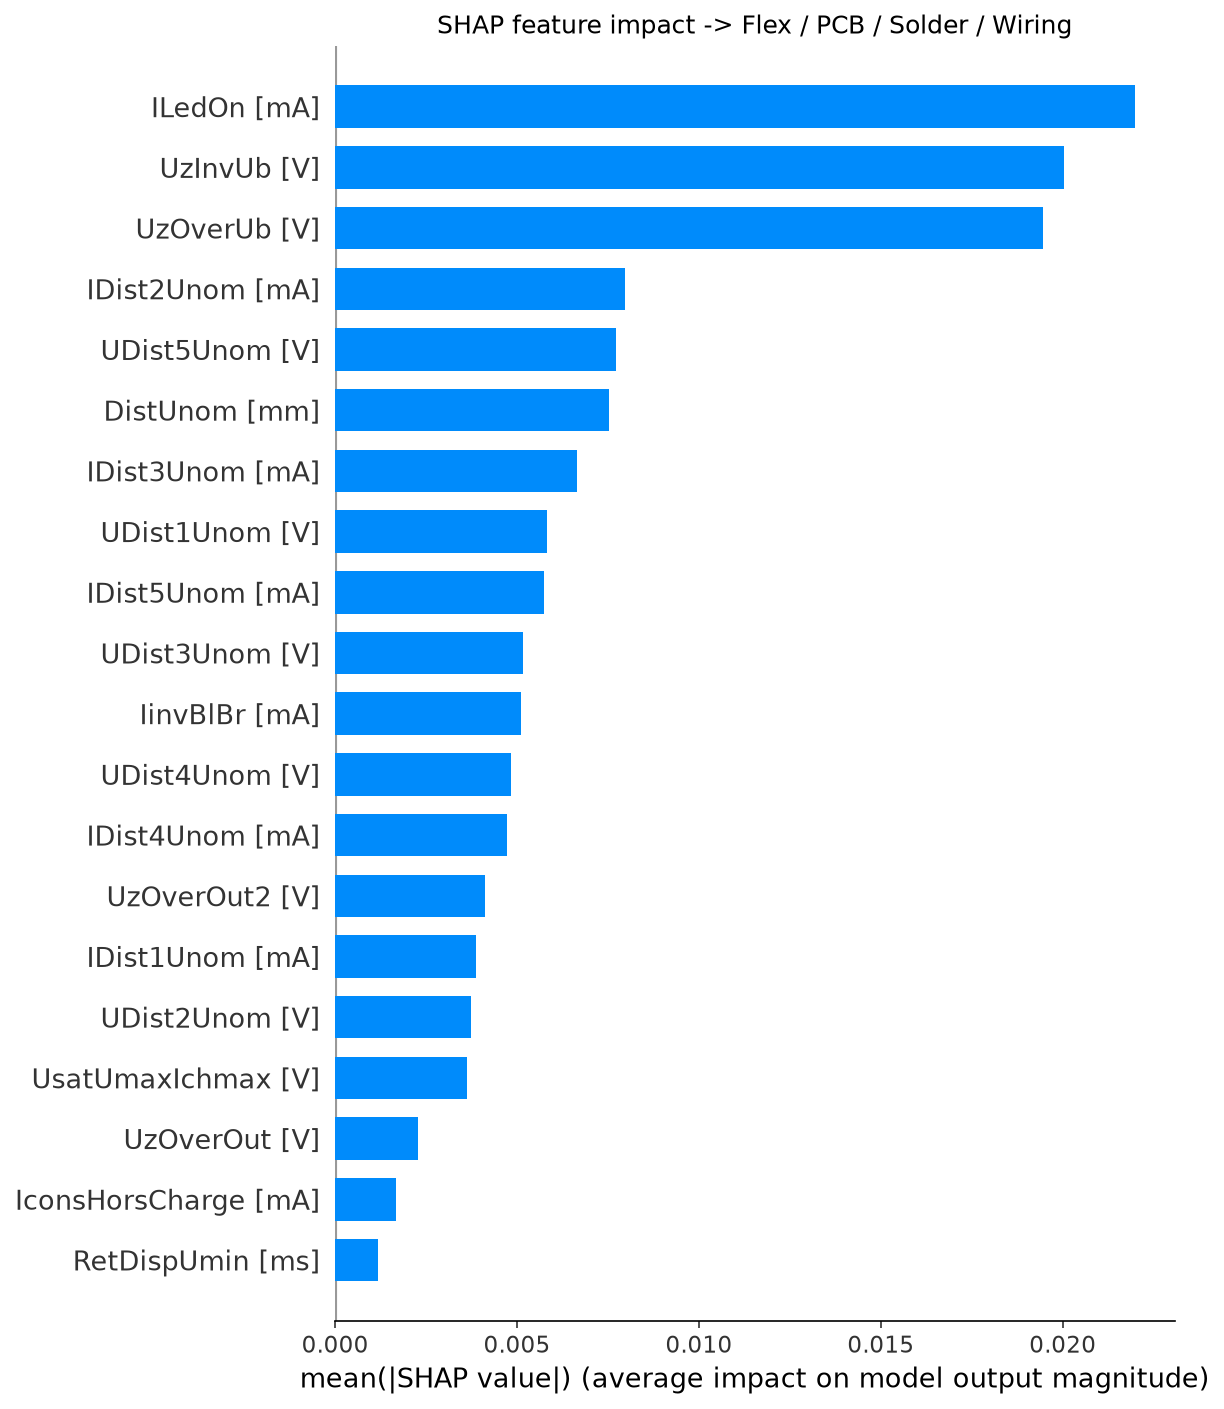
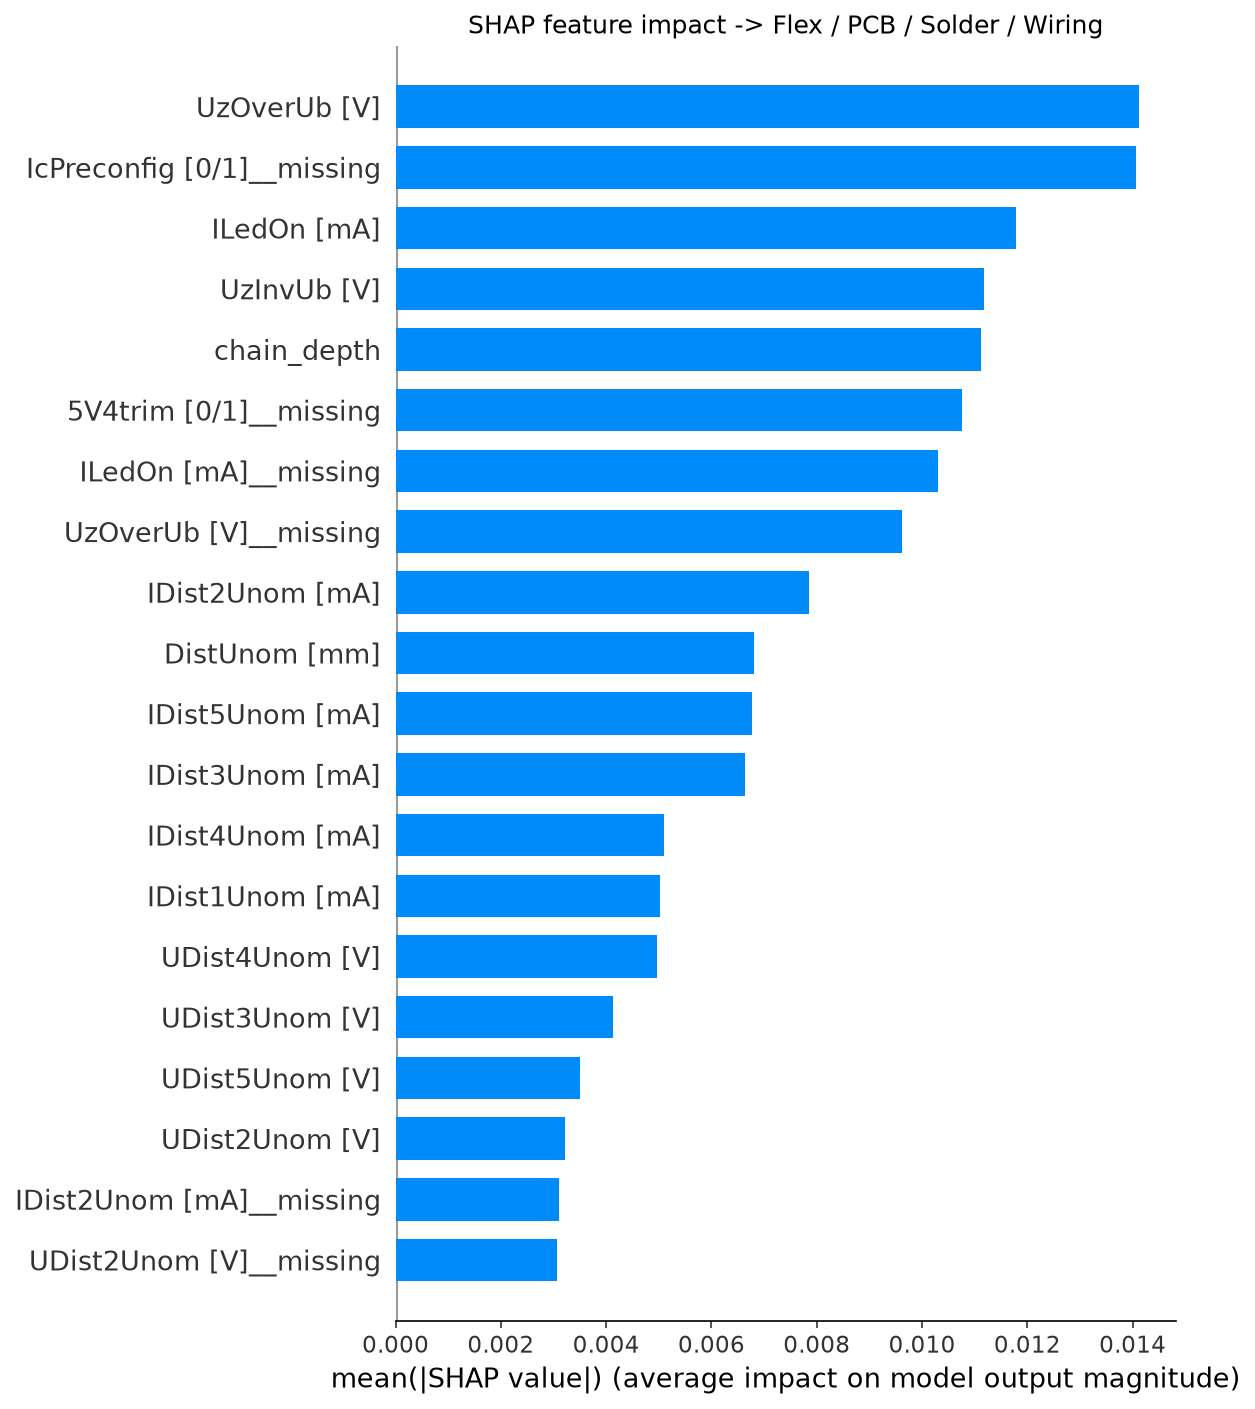
Add blank-pattern indicators and chain_depth features; ML macro F1 0.461 -> 0.491

Changed region(s): [[0.0, 0.0625, 0.9935, 0.9993], [0.3725, 0.0, 0.9003, 0.0312], [0.8072, 0.0625, 0.9314, 0.1874]]

diff --git a/src/features.py b/src/features.py
@@ -38,10 +38,25 @@ labeled_units.csv (and its train/test split) has 4 kinds of columns:
 Missing values
 ---------------
 A blank cell means that parameter was skipped ("--") for that unit during
-the FT run (not every parameter applies to every article/test program).
-These are median-imputed per column. Imputation statistics are fit on the
-TRAIN split only and then applied to the test split, so no information
-about the test set's own distribution leaks into training.
+the FT run. For the 0/1 calibration flags this is NOT noise: the tester
+aborts its calibration sequence at the first error, so a blank means "the
+sequence never got this far" -- the strongest predictive signal in the data
+(see rules_baseline.py). Median imputation alone would erase it, so before
+imputing, this module adds:
+
+  * <column>__missing  -- 1 if that column was blank, 0 otherwise, for every
+                          column that has at least one blank in the TRAIN
+                          split (the column set is fixed from train only).
+  * chain_depth         -- how many steps of the calibration sequence
+                          (CHAIN_ORDER) were reached in a row before the
+                          first blank: 0 = nothing reached ... 10 = all.
+
+These are raw properties of the FT export (available for a brand-new unit at
+inference time), so they are not leaky like severity_score.
+
+Remaining blanks are then median-imputed per column. Imputation statistics
+are fit on the TRAIN split only and applied to the test split, so no
+information about the test set's own distribution leaks into training.
 
 Usage
 -----
@@ -73,6 +88,15 @@ NON_FEATURE_COLUMNS = {
     # leaky: derived FROM the label via parser.py's category-matching logic
     "severity_score", "n_flagged_params", "flagged_params", "flagged_params_matched",
 }
+
+# Execution order of the CTX510 calibration sequence, derived empirically from
+# train data (same order as rules_baseline.TEST_ORDER; TestIsolation is
+# excluded because it runs independently of the chain).
+CHAIN_ORDER = [
+    "IcPreconfig [0/1]", "5V4trim [0/1]", "TemperatureComp [0/1]",
+    "CalibrSP1Hys [0/1]", "CalibrSP1 [0/1]", "CalibrSP2Hys [0/1]", "CalibrSP2 [0/1]",
+    "CalibrSP3Hys [0/1]", "CalibrSP3 [0/1]", "YellowLed [0/1]",
+]
 
 LABEL_COLUMN = "model_target"
 GROUP_COLUMN = "PO"
@@ -144,6 +168,47 @@ def build_feature_matrix(train_path: str, test_path: str):
     train_raw, y_train, groups_train = extract(train_rows)
     test_raw, y_test, groups_test = extract(test_rows)
 
+    col_idx_of = {c: i for i, c in enumerate(feature_names)}
+
+    # Columns that get a __missing indicator: any column with >=1 blank in TRAIN.
+    # Columns whose blank-pattern is IDENTICAL across all train rows (they are
+    # skipped together by the same test-program abort) would just be duplicate
+    # features and split SHAP credit between copies, so only the first column
+    # of each identical group is kept; the others are recorded in
+    # INDICATOR_GROUPS so the grouping stays traceable.
+    seen_patterns = {}
+    missing_cols = []
+    indicator_groups = {}
+    for c in feature_names:
+        pattern = tuple(row[col_idx_of[c]] is None for row in train_raw)
+        if not any(pattern):
+            continue
+        if pattern in seen_patterns:
+            indicator_groups[seen_patterns[pattern]].append(c)
+        else:
+            seen_patterns[pattern] = c
+            missing_cols.append(c)
+            indicator_groups[c] = [c]
+
+    def chain_depth(raw_row):
+        depth = 0
+        for c in CHAIN_ORDER:
+            if c not in col_idx_of or raw_row[col_idx_of[c]] is None:
+                break
+            depth += 1
+        return depth
+
+    def indicators(raw):
+        return [
+            [1.0 if row[col_idx_of[c]] is None else 0.0 for c in missing_cols]
+            + [float(chain_depth(row))]
+            for row in raw
+        ]
+
+    indicator_names = [f"{c}__missing" for c in missing_cols] + ["chain_depth"]
+    # Exposed for the CLI printout.
+    build_feature_matrix.indicator_groups = indicator_groups
+
     # Fit per-column medians on TRAIN only.
     medians = []
     for col_idx in range(len(feature_names)):
@@ -156,8 +221,10 @@ def build_feature_matrix(train_path: str, test_path: str):
             for row in raw
         ]
 
-    X_train = impute(train_raw)
-    X_test = impute(test_raw)
+    # Indicators are computed from the RAW (pre-imputation) rows.
+    X_train = [a + b for a, b in zip(impute(train_raw), indicators(train_raw))]
+    X_test = [a + b for a, b in zip(impute(test_raw), indicators(test_raw))]
+    feature_names = feature_names + indicator_names
 
     return X_train, y_train, groups_train, X_test, y_test, groups_test, feature_names
 
@@ -186,10 +253,14 @@ def main():
     write(train_out, X_train, y_train, groups_train)
     write(test_out, X_test, y_test, groups_test)
 
-    print(f"{len(feature_names)} feature columns (raw FT parameters only -- "
-          f"no label-derived columns included):")
+    print(f"{len(feature_names)} feature columns (raw FT parameters + blank-pattern "
+          f"indicators; no label-derived columns included):")
     for c in feature_names:
         print(f"  {c}")
+    print("\nBlank-pattern indicator groups (each __missing column stands for every "
+          "column listed -- they were blank together in all train rows):")
+    for lead, members in build_feature_matrix.indicator_groups.items():
+        print(f"  {lead}__missing  <-  {members}")
     print(f"\nExcluded as identifiers/metadata/label-derived/leaky: "
           f"{sorted(NON_FEATURE_COLUMNS)}")
     print(f"\nTrain: {len(X_train)} rows -> {train_out}")
